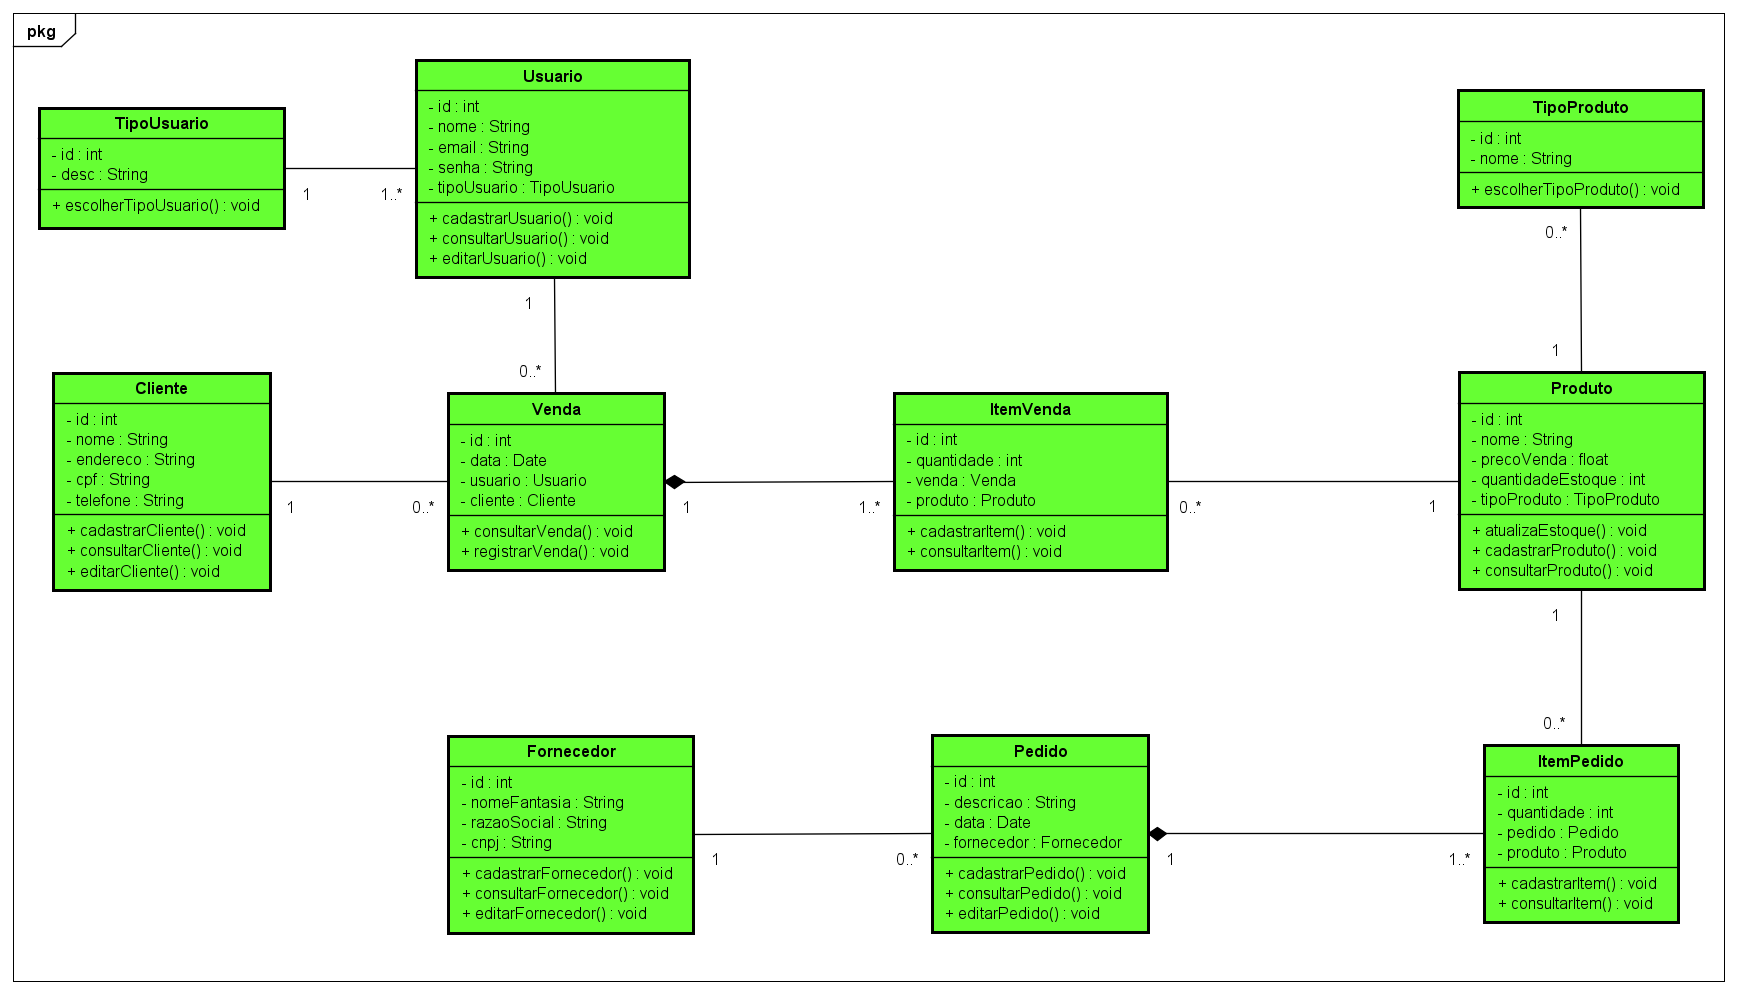
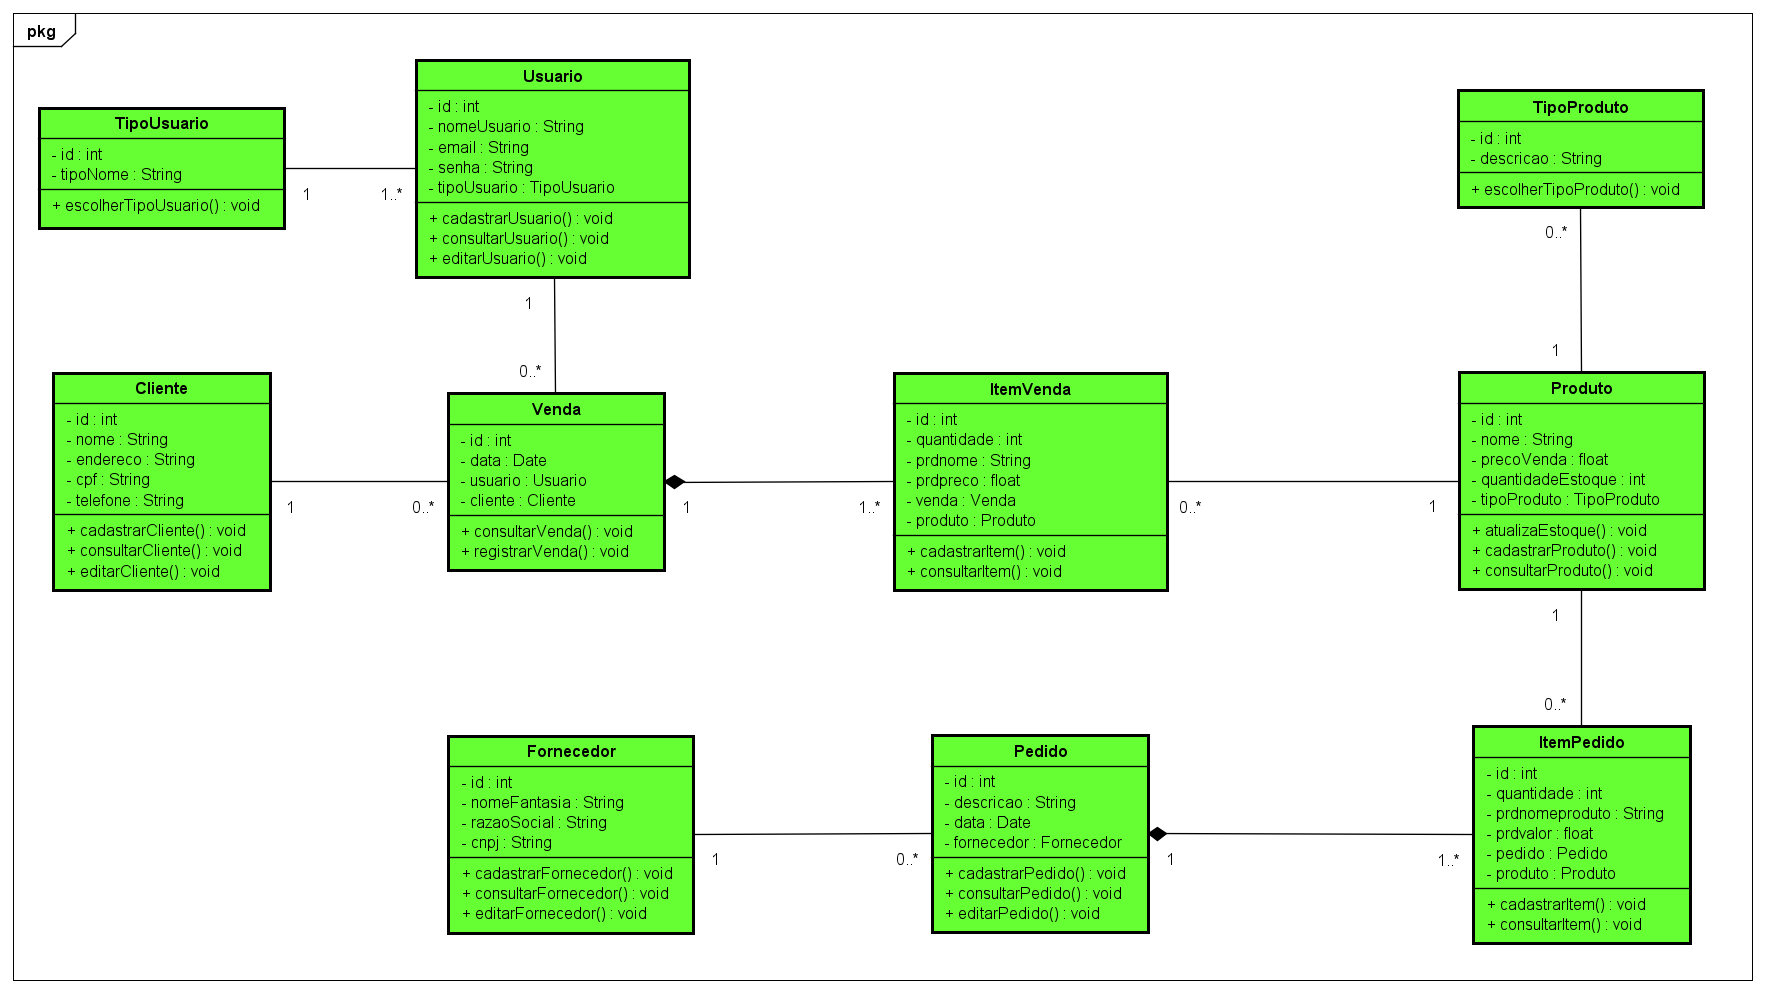
README

diff --git a/README.md b/README.md
@@ -6,9 +6,9 @@ A finalidade desse software é armazenar diversos tipos de dados com segurança 
 
 ## Diagrama de Casos de Uso
 
-<img src="./app/src/components/img/DiagramaCasosUso.png" style="heigth: 700px; width: 700px;" />
+<img src="./app/src/components/img/DiagramaCasosUso.png" style="heigth: 800px; width: 800px;" />
 
 ## Diagrama de Classes
 
-<img src="./app/src/components/img/DiagramaClasses.png" style="heigth: 700px; width: 700px;" />
+<img src="./app/src/components/img/DiagramaClasses.png" style="heigth: 800px; width: 800px;" />
 
